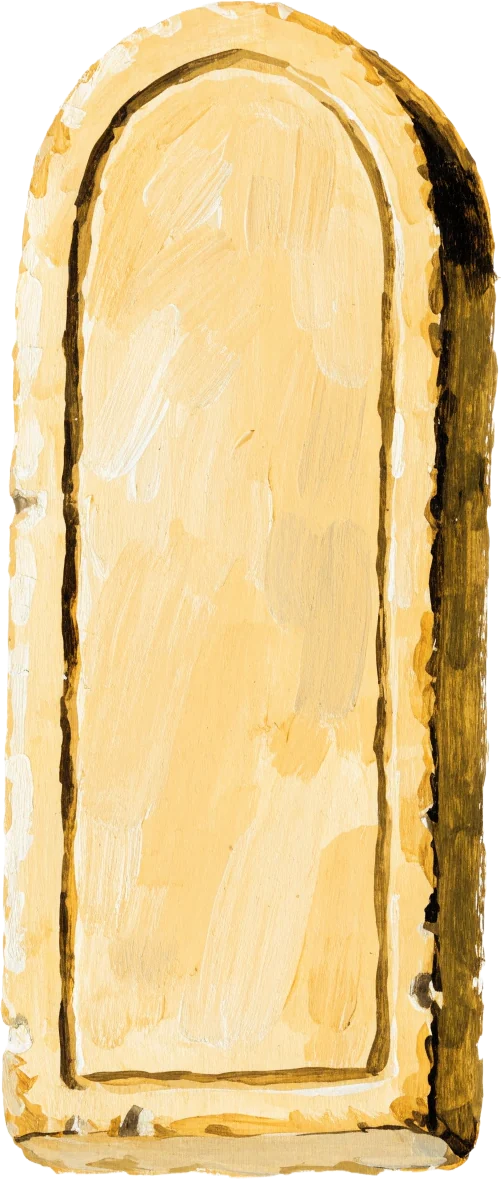
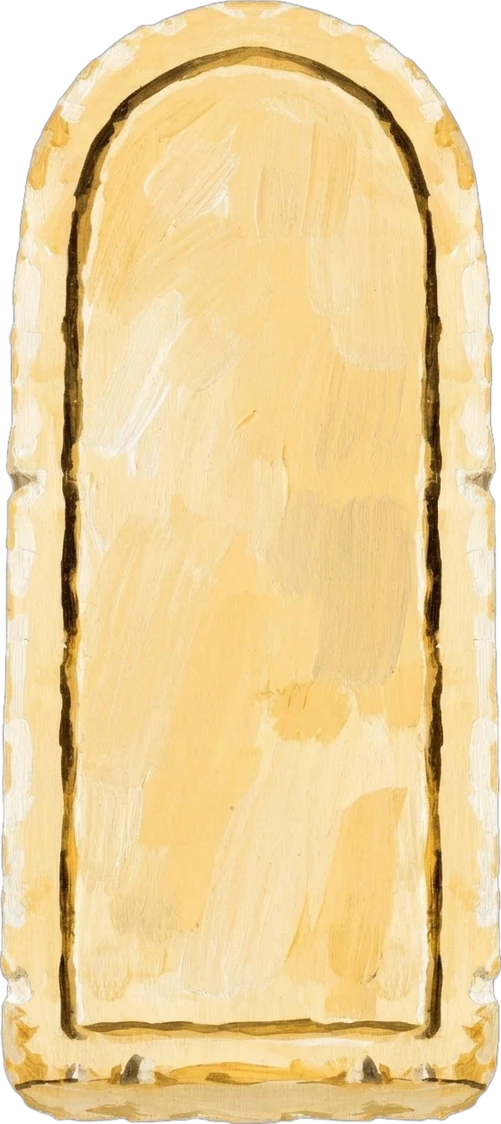
輸入框拿掉硬上限（注音拼音不再吃字），小孩取名寫清楚只寫姓；乾坤木牌換正面對稱素材

diff --git a/site/js/main.js b/site/js/main.js
@@ -171,7 +171,8 @@ function askName() {
   speak(kid ? `小孩<span class="q">姓什麼？</span>寫在紅紙上。` : `名字寫給我看，<span class="q">寫全名。</span>`);
   act.innerHTML = `<form class="pen" id="penForm" autocomplete="off">
       <label class="sr" for="nameIn">${kid ? "小孩的姓" : "全名"}</label>
-      <input id="nameIn" maxlength="${kid ? 2 : 5}" enterkeyhint="done" placeholder="${kid ? "例如：林" : "例如：林家豪"}" value="${esc(S.chars.join(""))}">
+      ${kid ? `<p class="pen-tip">幫小孩取名：<b>只寫姓</b>，名字我來挑</p>` : ""}
+      <input id="nameIn" enterkeyhint="done" placeholder="${kid ? "只寫姓，例如：林" : "寫全名，例如：林家豪"}" value="${esc(S.chars.join(""))}">
       <div id="nameNote"></div>
       <button type="submit" class="btn main wide" id="nameOk" disabled>${kid ? "就這個姓" : "就這個名字"}</button>
     </form>`;
@@ -205,6 +206,8 @@ async function onNameInput(raw) {
   if (conv.length) html += `<p class="fine">筆畫要照康熙字典算，我先幫你寫成繁體字。</p>`;
   for (const m of multi) html += `<p class="fine">是哪一個字？</p><div class="opts">${m.opts.map(o => `<button type="button" class="opt" data-i="${m.i}" data-c="${esc(o)}" aria-pressed="${S.chars[m.i] === o}">${esc(o)}</button>`).join("")}</div>`;
   if (unknown.length) html += `<p class="fine">「${esc(unknown.join("、"))}」這字我字典翻不到，筆畫不敢亂算，換個寫法看看。</p>`;
+  if (S.mode === "name" && chars.length > 2) html += `<p class="fine warn">幫小孩取名只要寫姓就好，名字我來挑。要看自己的名字，按左上角「返」，選「看名字」。</p>`;
+  if (S.mode === "read" && chars.length > 5) html += `<p class="fine warn">名字最多五個字，複姓加三個字也夠了。</p>`;
   const sp = currentSplit();
   if (S.mode === "read" && chars.length >= 3) {
     const two = chars.slice(0, 2).join("");
@@ -469,7 +472,7 @@ function showReading(R, opts = {}) {
     <div class="ask f-slip" id="askBox" hidden>
       <p class="ask-h">還有想問的，跟先生講</p>
       <div class="ask-log" id="askLog"></div>
-      <textarea id="askQ" rows="2" maxlength="${LIMITS.QUESTION_MAX}" placeholder="例如：這個名字適合自己做生意嗎？" aria-label="想問先生的事"></textarea>
+      <textarea id="askQ" rows="2" placeholder="例如：這個名字適合自己做生意嗎？" aria-label="想問先生的事"></textarea>
       <div class="ask-foot"><span id="askMeta"></span><button type="button" class="btn main" id="askGo">請先生細說</button></div>
     </div>
     <article class="reading" id="readingBody" data-mode="${view}">
@@ -503,7 +506,7 @@ function setupAsk(R) {
   const sync = () => {
     const n = [...q.value.trim()].length, left = askLeft();
     go.textContent = n ? "叩問" : "請先生細說";
-    meta.innerHTML = `${n}／${LIMITS.QUESTION_MAX} 字・今天還能問 <b>${left}</b> 次`;
+    meta.innerHTML = n > LIMITS.QUESTION_MAX ? `<em>超過 ${n - LIMITS.QUESTION_MAX} 個字</em>，講重點就好` : `${n}／${LIMITS.QUESTION_MAX} 字・今天還能問 <b>${left}</b> 次`;
     go.disabled = n > LIMITS.QUESTION_MAX;
   };
   q.oninput = sync; sync();
@@ -563,7 +566,7 @@ async function showRename(R) {
     <div class="cond f-slip"><p class="cond-sum" id="condSum"></p><button type="button" class="opt small" id="condBtn" aria-expanded="false">改條件</button></div>
     <div class="cond-body f-slip" id="condBody" hidden>
       <p class="cond-row">名字取<span class="opts"><button type="button" class="opt" data-len="2">兩個字</button><button type="button" class="opt" data-len="1">一個字</button></span></p>
-      <p class="cond-row">要留的字<input id="rKeepCh" maxlength="1" placeholder="沒有" aria-label="要留的字">放<span class="opts"><button type="button" class="opt" data-kp="0">頭一個</button><button type="button" class="opt" data-kp="1">後一個</button></span></p>
+      <p class="cond-row">要留的字<input id="rKeepCh" placeholder="沒有" aria-label="要留的字（一個字）">放<span class="opts"><button type="button" class="opt" data-kp="0">頭一個</button><button type="button" class="opt" data-kp="1">後一個</button></span></p>
       <p class="cond-row">不要用的字<input id="rEx" class="long" placeholder="例如：美、玲" aria-label="不要用的字"></p>
       <p class="cond-row"><span class="opts"><button type="button" class="opt" id="rFree">男女的字都可以用</button></span></p>
       <button type="button" class="btn main wide" id="rGo">照這樣再挑</button>

diff --git a/site/css/mobile.css b/site/css/mobile.css
@@ -236,3 +236,9 @@
 .pk-o:hover { background: url(../assets/ui/stroke.webp) center bottom 6px / 70% 4px no-repeat; }
 .pk-o[aria-pressed=true] { color: var(--vermilion); background: url(../assets/ui/stroke-red.webp) center bottom 4px / 80% 6px no-repeat; }
 .pk-o:focus-visible { outline: none; filter: drop-shadow(0 0 4px rgba(200, 120, 40, .8)); }
+.pen-tip { margin: 0; text-align: center; font: 400 16px/1.5 var(--kai); color: #f3e3c4; text-shadow: var(--carve); }
+.pen-tip b { color: #ffd88a; }
+.fine.warn { color: #ffd0a0; }
+.ask-foot em { font-style: normal; color: var(--vermilion); font-weight: 700; }
+/* 木牌改成正面對稱的素材，字放正中 */
+.tk .face { padding: 22% 0 8% 0; }

diff --git a/site/js/assets.js b/site/js/assets.js
@@ -11,7 +11,7 @@ export const ASSETS = {
   "master/stern":   { label: "老師傅・正色", ar: 560 / 572, src: "assets/master/stern.webp" },
   "props/table":    { label: "紅布木桌", ar: 1100 / 540, src: "assets/props/table.webp" },
   "props/brush":    { label: "毛筆與硯台", ar: 360 / 246, src: "assets/props/brush.webp" },
-  "props/token":    { label: "黃楊木牌", ar: 501 / 1179, src: "assets/props/token.webp" },
+  "props/token":    { label: "黃楊木牌", ar: 501 / 1124, src: "assets/props/token.webp" },
 };
 
 /** 產生素材插槽 HTML：有圖就放圖，沒圖就放佔位框 */
